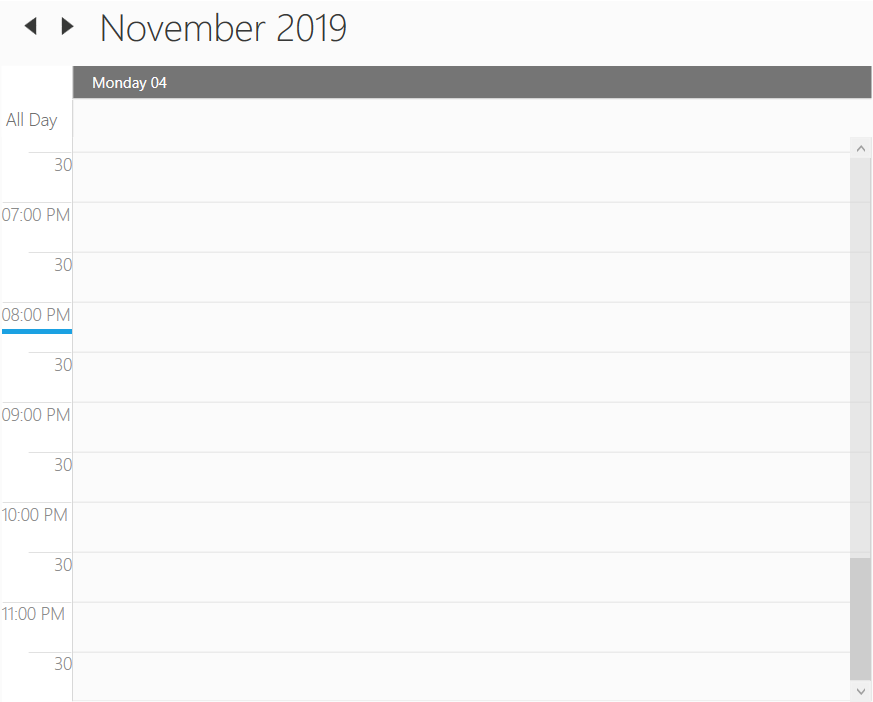
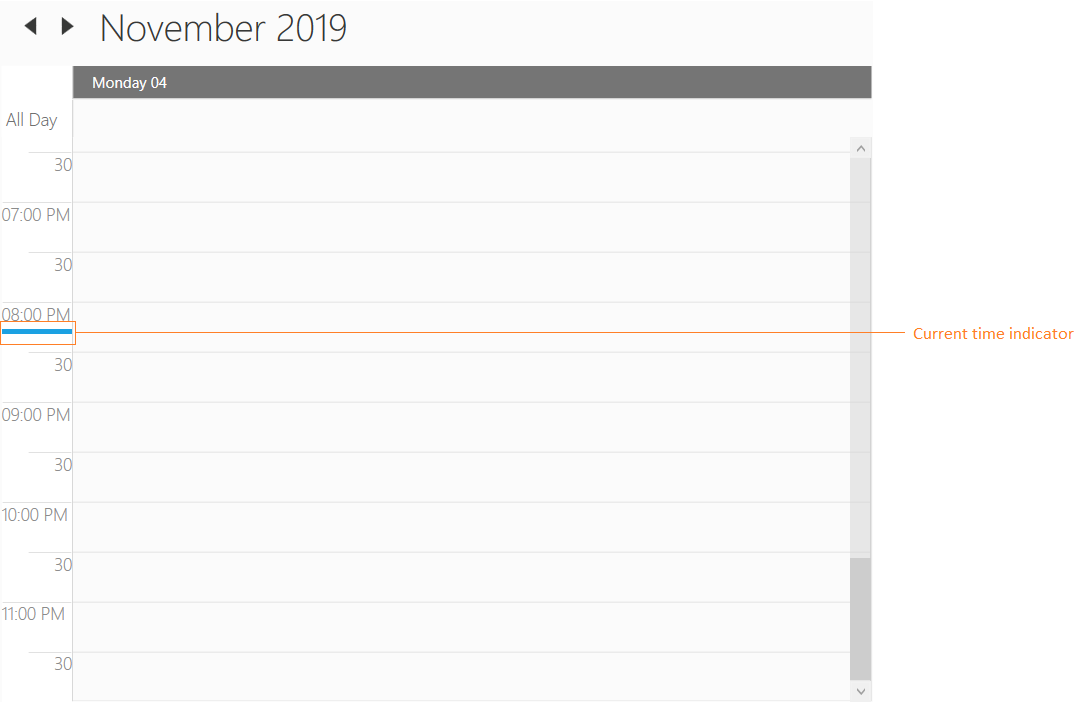
Views changes are committed.

diff --git a/wpf/Scheduler/views.md b/wpf/Scheduler/views.md
@@ -106,8 +106,8 @@ this.schedule.IntervalHeight = 100;
 
 ![WPF scheduler dayview interval height](views_images/dayview-interval-height.png)
 
-## Change time mode 
-Scheduler supports to change the Time format from 12hours to 24 hours by using the [TimeMode](https://help.syncfusion.com/cr/cref_files/wpf/Syncfusion.SfSchedule.WPF~Syncfusion.UI.Xaml.Schedule.SfSchedule~TimeMode.html) property.
+## Change between 12-hour and 24-hour format
+Scheduler supports to change the time format from 12hours to 24 hours by using the [TimeMode](https://help.syncfusion.com/cr/cref_files/wpf/Syncfusion.SfSchedule.WPF~Syncfusion.UI.Xaml.Schedule.SfSchedule~TimeMode.html) property.
 
 {% tabs %}
 {% highlight xaml %}
@@ -129,7 +129,7 @@ schedule.TimeMode = TimeModes.TwelveHours;
 ![WPF Scheduler day view 24 hours](views_images/dayview-24hours-format.png)
 
 ## Change first day of week
-Scheduler supports to switch the first week with any day by using [FirstDayOfWeek](https://help.syncfusion.com/cr/wpf/Syncfusion.SfSchedule.WPF~Syncfusion.UI.Xaml.Schedule.SfSchedule~FirstDayOfWeek.html) property.
+Scheduler supports to change the first week with any day by using [FirstDayOfWeek](https://help.syncfusion.com/cr/wpf/Syncfusion.SfSchedule.WPF~Syncfusion.UI.Xaml.Schedule.SfSchedule~FirstDayOfWeek.html) property.
 
 `Day` - `FirstDayOfWeek` of Scheduler is not applicable for day view as it displays only one day.
 
@@ -265,6 +265,43 @@ this.schedule.IsHighLightWorkingHours = true;
 
 ![WPF scheduler DayView Non working hours background changes](views_images/dayview-non-working-hours-background.png)
 
+## Current time indicator
+Scheduler supports to display the current time indicator by using the [CurrentTimeIndicatorVisibility](https://help.syncfusion.com/cr/cref_files/wpf/Syncfusion.SfSchedule.WPF~Syncfusion.UI.Xaml.Schedule.SfSchedule~CurrentTimeIndicatorVisibility.html) property.
+
+{% tabs %}
+{% highlight xaml %}
+<syncfusion:SfSchedule ScheduleType="Day" CurrentTimeIndicatorVisibility="Visible"/>
+{% endhighlight %}
+{% highlight c# %}
+schedule.ScheduleType = ScheduleType.Day;
+this.schedule.CurrentTimeIndicatorVisibility = Visibility.Visible;
+{% endhighlight %}
+{% endtabs %}
+
+![WPF Scheduler dayview current time indicator](views_images/dayview-current-time-indicator.png)
+
+### Customize current time indicator
+Scheduler supports to customize the current time indicator by using [CurrentTimeIndicatorTemplate](https://help.syncfusion.com/cr/cref_files/wpf/Syncfusion.SfSchedule.WPF~Syncfusion.UI.Xaml.Schedule.SfSchedule~CurrentTimeIndicatorTemplate.html) property.
+
+{% tabs %}
+{% highlight xaml %}
+<Schedule:SfSchedule x:Name="schedule" ScheduleType="Day" CurrentTimeIndicatorVisibility="Visible">
+    <Schedule:SfSchedule.CurrentTimeIndicatorTemplate>
+        <DataTemplate>
+            <Border Background="DarkGreen" Height="10" Width="100"></Border>
+        </DataTemplate>
+    </Schedule:SfSchedule.CurrentTimeIndicatorTemplate>
+</Schedule:SfSchedule>     
+{% endhighlight %}
+{% highlight c# %}
+schedule.ScheduleType = ScheduleType.Day;
+schedule.CurrentTimeIndicatorVisibility = Visibility.Visible;
+schedule.CurrentTimeIndicatorTemplate = (DataTemplate)this.Resources["CurrentTimeIndicatorTemplate"];
+{% endhighlight %}
+{% endtabs %}
+
+![WPF Scheduler dayview customize current time indicator](views_images/dayview-current-time-indicator-template-customization.png)
+
 ## Appearance
 
 ### Changing time label background
@@ -283,7 +320,7 @@ this.schedule.HeaderBackground = Brushes.LightSkyBlue;
 ![WPF scheduler dayview header background](views_images/dayview-header-background.png)
 
 ### Stroke customization
-In Scheduler control, major, minor, and horizontal lines drawn in the day and week views by using following properties,
+In Scheduler control, major, minor horizontal and vertical lines drawn in the day, week, workweek and timeline views by using following properties,
 
 ####  Property Table
 
@@ -297,37 +334,37 @@ Description</th></tr>
 <td>
 <a href="(https://help.syncfusion.com/cr/wpf/Syncfusion.SfSchedule.WPF~Syncfusion.UI.Xaml.Schedule.SfSchedule~MajorTickStroke.html)">MajorTickStroke</a></td><td>
 Brush</td><td>
-Used to customize the major line stroke of the day and time line views.</td></tr>
+Used to customize the major line stroke of the day, week, workweek and timeline views.</td></tr>
 <tr>
 <td>
 <a href="https://help.syncfusion.com/cr/wpf/Syncfusion.SfSchedule.WPF~Syncfusion.UI.Xaml.Schedule.SfSchedule~MinorTickStroke.html">MinorTickStroke</a></td><td>
 Brush</td><td>
-Used to customize the minor line stroke of the day and time line views.</td></tr>
+Used to customize the minor line stroke of the day, week, workweek and timeline views.</td></tr>
 <tr>
 <td>
 <a href="https://help.syncfusion.com/cr/wpf/Syncfusion.SfSchedule.WPF~Syncfusion.UI.Xaml.Schedule.SfSchedule~MinorTickLabelStroke.html">MajorTickLabelStroke</a></td><td>
 Brush</td><td>
-Used to customize the major line label stroke in the day and time line views.</td></tr>
+Used to customize the major line label stroke in the day, week, workweek and timeline views.</td></tr>
 <tr>
 <td>
 <a href="https://help.syncfusion.com/cr/wpf/Syncfusion.SfSchedule.WPF~Syncfusion.UI.Xaml.Schedule.SfSchedule~MajorTickLabelStroke.html">MinorTickLabelStroke</a></td><td>
 Brush</td><td>
-Used to customize the minor line label stroke of the day and time line views.</td></tr>
+Used to customize the minor line label stroke of the day, week, workweek and timeline views.</td></tr>
 <tr>
 <td>
 <a href="https://help.syncfusion.com/cr/cref_files/wpf/Syncfusion.SfSchedule.WPF~Syncfusion.UI.Xaml.Schedule.SfSchedule~MajorTickStrokeDashArray.html">MajorTickStrokeDashArray</td><td>
 DoubleCollection</td><td>
-Used to customize the major line stroke dash array of the day and time line views.</td></tr>
+Used to customize the major line stroke dash array of the day, week, workweek and timeline views.</td></tr>
 <tr>
 <td>
 <a href="https://help.syncfusion.com/cr/cref_files/wpf/Syncfusion.SfSchedule.WPF~Syncfusion.UI.Xaml.Schedule.SfSchedule~MinorTickStrokeDashArray.html">MinorTickStrokeDashArray</td><td>
 DoubleCollection</td><td>
-Used to customize the minor line stroke dash array of the day and time line views.</td></tr>
+Used to customize the minor line stroke dash array of the day, week, workweek and timeline views.</td></tr>
 <tr>
 <td>
 <a href="https://help.syncfusion.com/cr/wpf/Syncfusion.SfSchedule.WPF~Syncfusion.UI.Xaml.Schedule.SfSchedule~DayViewVerticalLineStroke.html">DayViewVerticalLineStroke</td><td>
 Brush</td><td>
-Used to customize the vertical line stroke of the day view.</td></tr>
+Used to customize the vertical line stroke of the day, week and workweek view.</td></tr>
 </table>
 
 #### Changing time label foreground
@@ -406,43 +443,6 @@ this.schedule.CurrentDateForeground = Brushes.White;
 {% endtabs %}
 
 ![WPF Scheduler WorkWeekView current date background](views_images/workweek-current-date-background.png)
-
-### Current time indicating
-Scheduler supports to enable the current time by using the [CurrentTimeIndicatorVisibility](https://help.syncfusion.com/cr/cref_files/wpf/Syncfusion.SfSchedule.WPF~Syncfusion.UI.Xaml.Schedule.SfSchedule~CurrentTimeIndicatorVisibility.html) property.
-
-{% tabs %}
-{% highlight xaml %}
-<syncfusion:SfSchedule ScheduleType="Day" CurrentTimeIndicatorVisibility="Visible"/>
-{% endhighlight %}
-{% highlight c# %}
-schedule.ScheduleType = ScheduleType.Day;
-this.schedule.CurrentTimeIndicatorVisibility = Visibility.Visible;
-{% endhighlight %}
-{% endtabs %}
-
-![WPF Scheduler dayview current time indicator](views_images/dayview-current-time-indicator.png)
-
-### Customize current time indicator
-Scheduler supports to customize the current time indicator by using [CurrentTimeIndicatorTemplate](https://help.syncfusion.com/cr/cref_files/wpf/Syncfusion.SfSchedule.WPF~Syncfusion.UI.Xaml.Schedule.SfSchedule~CurrentTimeIndicatorTemplate.html) property.
-
-{% tabs %}
-{% highlight xaml %}
-<Schedule:SfSchedule x:Name="schedule" ScheduleType="Day" CurrentTimeIndicatorVisibility="Visible">
-    <Schedule:SfSchedule.CurrentTimeIndicatorTemplate>
-        <DataTemplate>
-            <Border Background="DarkGreen" Height="10" Width="100"></Border>
-        </DataTemplate>
-    </Schedule:SfSchedule.CurrentTimeIndicatorTemplate>
-</Schedule:SfSchedule>     
-{% endhighlight %}
-{% highlight c# %}
-schedule.ScheduleType = ScheduleType.Day;
-schedule.CurrentTimeIndicatorVisibility = Visibility.Visible;
-schedule.CurrentTimeIndicatorTemplate = (DataTemplate)this.Resources["CurrentTimeIndicatorTemplate"];
-{% endhighlight %}
-{% endtabs %}
-
-![WPF Scheduler dayview customize current time indicator](views_images/dayview-current-time-indicator-template-customization.png)
 
 ## Change schedule view settings based on the views at run time
 Scheduler supports to notify before that changing the schedule view by using [ScheduleTypeChanging](https://help.syncfusion.com/cr/wpf/Syncfusion.SfSchedule.WPF~Syncfusion.UI.Xaml.Schedule.SfSchedule~ScheduleTypeChanging_EV.html) event. By this event, the appearance can be adjusted depending on the view.
